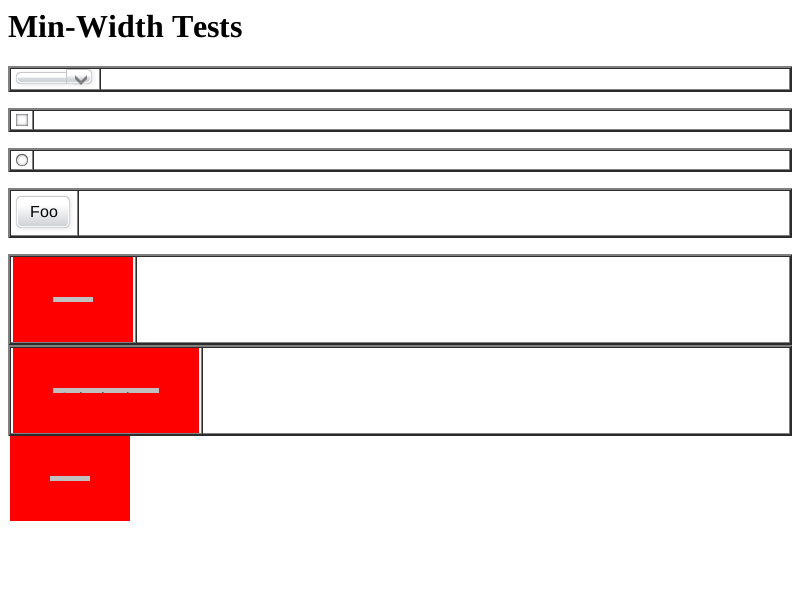
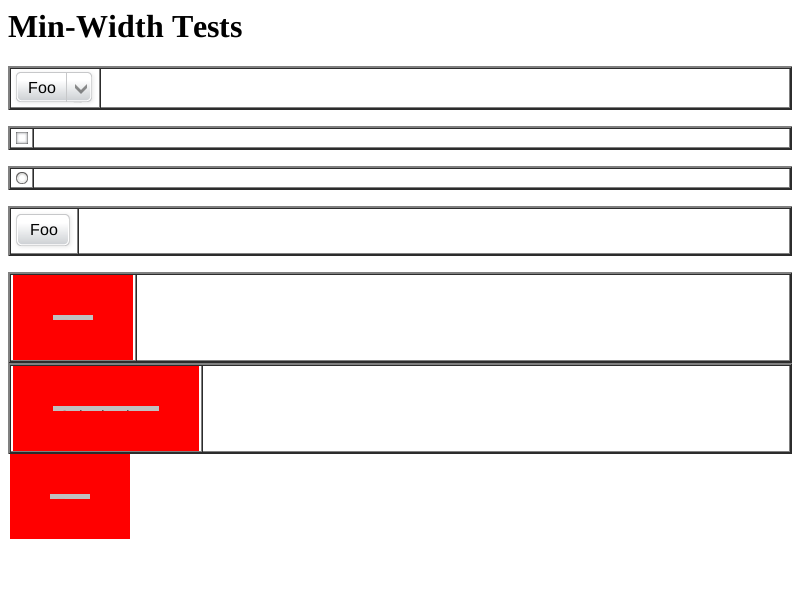
[EFL]<select> element's text is clipped when a height is specified along with CSS line-height. https://bugs.webkit.org/show_bug.cgi?id=114862
Patch by Rashmi Kulakarni <rashmi.vijay@samsung.com> on 2013-06-03
Reviewed by Gyuyoung Kim.

Source/WebCore:

Fix <select> element getting clipped when element height becomes less than the line-height.
Set minimum height for <select> element.

No new tests, no behavior change.

* platform/efl/RenderThemeEfl.cpp:
(WebCore::RenderThemeEfl::adjustMenuListButtonStyle):

LayoutTests:

Rebaselined the test case fast/forms/001.html.

* platform/efl/fast/forms/001-expected.png:
* platform/efl/fast/forms/001-expected.txt:

Identifier: 135395@main
git-svn-id: https://svn.webkit.org/repository/webkit/trunk@151100 268f45cc-cd09-0410-ab3c-d52691b4dbfc

diff --git a/Source/WebCore/platform/efl/RenderThemeEfl.cpp b/Source/WebCore/platform/efl/RenderThemeEfl.cpp
@@ -866,6 +866,17 @@ bool RenderThemeEfl::paintMenuList(RenderObject* object, const PaintInfo& info, 
 
 void RenderThemeEfl::adjustMenuListButtonStyle(StyleResolver* styleResolver, RenderStyle* style, Element* element) const
 {
+    // Height is locked to auto if height is not specified.
+    style->setHeight(Length(Auto));
+
+    // The <select> box must be at least 12px high for the button to render the text inside the box without clipping.
+    const int dropDownBoxMinHeight = 12;
+
+    // Calculate min-height of the <select> element.
+    int minHeight = style->fontMetrics().height();
+    minHeight = max(minHeight, dropDownBoxMinHeight);
+    style->setMinHeight(Length(minHeight, Fixed));
+
     adjustMenuListStyle(styleResolver, style, element);
 }
 
